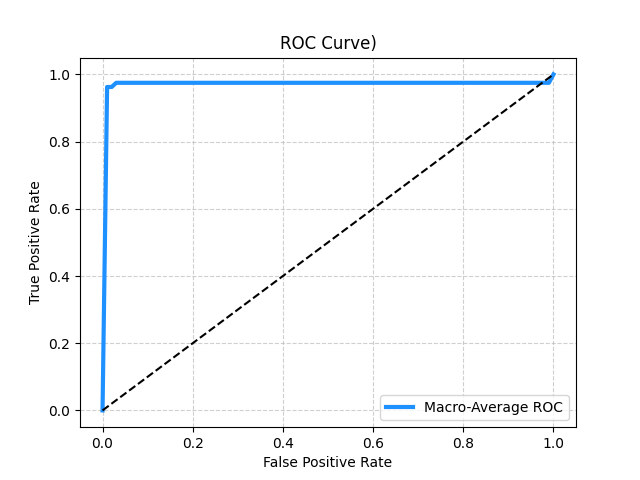
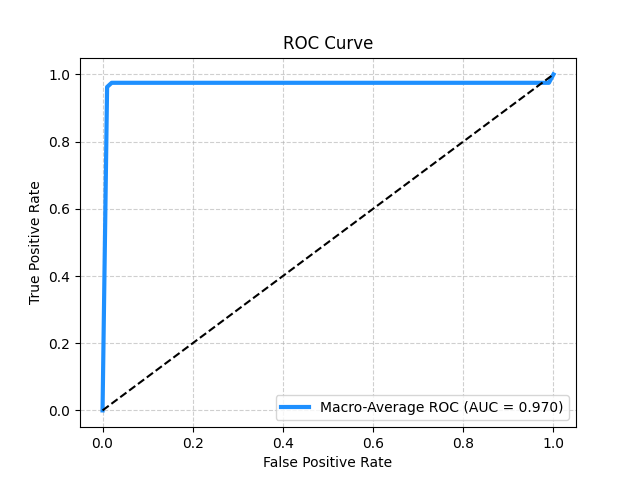
edit ROC

Changed region(s): [[0.4375, 0.8125, 0.875, 0.875], [0.4375, 0.0625, 0.5938, 0.125], [0.1562, 0.1562, 0.1875, 0.1875]]

diff --git a/core/pca_scratch.py b/core/pca_scratch.py
@@ -29,3 +29,64 @@ class PCA_Scratch:
     def fit_transform(self, X):
         self.fit(X)
         return self.transform(X)
+    
+
+# import numpy as np
+
+# class PCA_FromScratch:
+#     def __init__(self, n_components=10, n_iter=100):
+#         self.n_components = n_components
+#         self.n_iter = n_iter
+#         self.mean = None
+#         self.components = None
+#         self.eigenvalues = None
+
+#     def _power_iteration(self, A):
+#         n = A.shape[0]
+#         b = np.random.rand(n)
+#         b = b / np.linalg.norm(b)
+
+#         for _ in range(self.n_iter):
+#             b = A @ b
+#             norm = np.linalg.norm(b)
+#             if norm == 0:
+#                 break
+#             b = b / norm
+
+#         eigenvalue = b.T @ A @ b
+#         eigenvector = b
+#         return eigenvalue, eigenvector
+
+#     def fit(self, X):
+#         # 1) mean center
+#         self.mean = np.mean(X, axis=0)
+#         Xc = X - self.mean
+
+#         # 2) covariance
+#         C = (Xc.T @ Xc) / (Xc.shape[0] - 1)
+
+#         components = []
+#         eigenvalues = []
+
+#         A = C.copy()
+
+#         # 3) extract top k eigenvectors
+#         for _ in range(self.n_components):
+#             val, vec = self._power_iteration(A)
+
+#             components.append(vec)
+#             eigenvalues.append(val)
+
+#             # 4) deflation
+#             A = A - val * np.outer(vec, vec)
+
+#         self.components = np.array(components).T   # columns
+#         self.eigenvalues = np.array(eigenvalues)
+
+#     def transform(self, X):
+#         Xc = X - self.mean
+#         return Xc @ self.components
+
+#     def fit_transform(self, X):
+#         self.fit(X)
+#         return self.transform(X)

diff --git a/core/Roc.py b/core/Roc.py
@@ -8,9 +8,8 @@ class ROC_Curve:
         self.model = model
 
     def get_scores(self, X):
-        # Note: if your model returns distances, negate decision_function(X)
-        # so the values are treated like confidence scores.
-        return self.model.decision_function(X)
+        # Return probability estimates for each class
+        return self.model.predict_proba(X)
 
     def compute_binary_roc(self, y_true, y_scores):
         # Sort scores from highest to lowest.
@@ -76,21 +75,24 @@ class ROC_Curve:
         mean_tpr[0] = 0.0
         mean_tpr[-1] = 1.0
 
-        return mean_fpr, mean_tpr
+        # Compute area under the macro-averaged ROC curve.
+        auc = np.trapz(mean_tpr, mean_fpr)
+
+        return mean_fpr, mean_tpr, auc
 
     def plot_roc(self, X, y, save_path=None):
-        fpr, tpr = self.compute_macro_roc(X, y)
+        fpr, tpr, auc = self.compute_macro_roc(X, y)
 
         plt.figure()
 
         # Plot the ROC curve in blue.
-        plt.plot(fpr, tpr, lw=3, label="Macro-Average ROC", color='dodgerblue')
+        plt.plot(fpr, tpr, lw=3, label=f"Macro-Average ROC (AUC = {auc:.3f})", color='dodgerblue')
         
         plt.plot([0, 1], [0, 1], 'k--')
 
         plt.xlabel("False Positive Rate")
         plt.ylabel("True Positive Rate")
-        plt.title("ROC Curve)")
+        plt.title("ROC Curve")
         plt.legend(loc="lower right")
 
         # Add a light dashed grid for readability.
@@ -99,6 +101,7 @@ class ROC_Curve:
         if save_path:
             plt.savefig(save_path)
             plt.close()
-            return save_path
+            return save_path, auc
 
         plt.show()
+        return auc